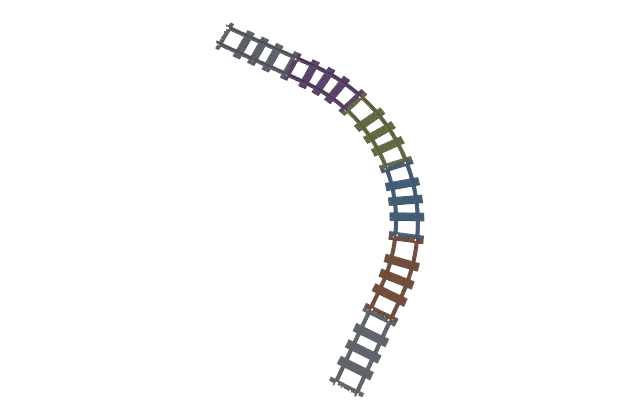
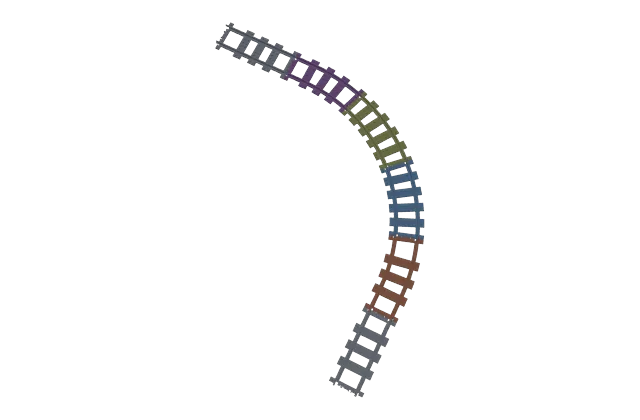
docs: settings pictures remade for the curves' sleepers; a picture for Plain track
- curveStuds and splitTrack pictures remade (curves' sleepers now split the arc evenly); every other
  settings picture rebuilt and unchanged.
- Plain track has pictures: a straight, LEGO's R40 and a BrickTracks R104 curve, printed blue, LEGO's light
  grey, BrickTracks' dark grey (option-shot.html takes each part's colour).

Changed region(s): [[0.5938, 0.4024, 0.6875, 0.5571], [0.5312, 0.2476, 0.6562, 0.3714]]

diff --git a/src/app/main.ts b/src/app/main.ts
@@ -1155,7 +1155,7 @@ const OPTION_FORM: OptSection[] = [
       { v: 'bed', t: 'Parts that fill the print bed', tip: 'Cut along straight lines where the bed needs it; the parts join as set in Parts join with.' },
       { v: 'lengths', t: 'Track pieces, cut across the track', tip: 'Each track cut square to itself into pieces with ordinary end connectors, like LEGO track. Switches and crossings stay whole.', con: 'More parts, and a cut only where the track is clear of other tracks.' }] },
     { key: 'pieceLengthStuds', label: 'Piece length, studs', step: 4, min: 0, max: 64, off: (c) => (c.o.splitTrack === 'lengths' ? undefined : 'only with Long track cut into: Track pieces'), help: 'LEGO straights are 16. 0: as long as fits the print bed. A longer piece than the bed takes: as long as fits.' },
-    { key: 'legoTrack', label: 'Plain track', help: 'Bought straights are 16 studs, whatever Piece length is.', off: (c) => (c.o.splitTrack !== 'lengths' ? 'only with Long track cut into: Track pieces' : design.gaugeStuds !== 4 ? 'LEGO track is 4 studs between the rails: the gauge isn\'t 4' : undefined), choices: [
+    { key: 'legoTrack', label: 'Plain track', help: 'Bought straights are 16 studs, whatever Piece length is. Pictures: printed blue, LEGO\'s light grey, BrickTracks\' dark grey.', off: (c) => (c.o.splitTrack !== 'lengths' ? 'only with Long track cut into: Track pieces' : design.gaugeStuds !== 4 ? 'LEGO track is 4 studs between the rails: the gauge isn\'t 4' : undefined), choices: [
       { v: 'lego', t: 'Bought: LEGO\'s and BrickTracks\'', tip: 'Plain track bought, not printed: each 16-stud straight is LEGO\'s (53401), with ballast on LEGO plates under it (6 x 16 and two 2 x 16, two more 6 x 16 for the buddy layer); R40 curves are LEGO\'s (53400) and R56 to R120 curves BrickTracks\' (injection moulded, 11.25° each), with ballast on a printed ballast piece (…-ballast, with the buddy layer if set) they drop into; with a Flat ballast underside, BrickTracks\' curves on BrickTracks\' own ballast and buddy, bought too. Bought parts are in the parts list (toolbar), not the STL download.', con: 'Their sleepers and underside are theirs, not as set here.' },
       { v: 'lego-only', t: 'Bought: LEGO\'s only', tip: 'LEGO\'s straights (53401) and R40 curves (53400) bought, as Bought track; every other piece printed, BrickTracks\' radii (R56 to R120) too.', con: 'Their sleepers and underside are theirs, not as set here.' },
       { v: 'print', t: 'Printed', tip: 'Every piece printed, as set here: nothing bought.', con: 'More to print.' }] },
@@ -1233,7 +1233,7 @@ const openSecs: Set<string> = (() => { try { const v = JSON.parse(localStorage.g
 const keepSecs = () => { try { localStorage.setItem('btd-settings-open', JSON.stringify([...openSecs])); } catch { /* (not kept) */ } };
 let optQuery = '';
 /** The settings whose choices have example pictures (public/options/<key>-<value>.webp, made by scripts/option-pictures.mts). */
-const PICTURED = new Set(['joint', 'pointBlades', 'tongueRails', 'sleepers', 'curveStuds', 'ballast', 'bottomStyle', 'grip', 'undersideGrid', 'splitTrack', 'mechStyle', 'bladeHold', 'bladeStyle', 'throwStyle', 'bufferStyle', 'monoEndStuds']);
+const PICTURED = new Set(['joint', 'pointBlades', 'tongueRails', 'sleepers', 'curveStuds', 'ballast', 'bottomStyle', 'grip', 'undersideGrid', 'splitTrack', 'mechStyle', 'bladeHold', 'bladeStyle', 'throwStyle', 'bufferStyle', 'monoEndStuds', 'legoTrack']);
 /** A setting's choices side by side in a modal: each one's picture, what it does, its drawback, and a button to use it. */
 function showChoices(f: OptField, cur: string, def: string, c: OptCtx, off: string | undefined, use: (v: string) => void) {
   const modal = $('choices'), body = $('choices-body');

diff --git a/scripts/option-shot.html b/scripts/option-shot.html
@@ -1,6 +1,7 @@
 <!doctype html><html><body style="margin:0;background:transparent"><script type="module">
 // (scripts/option-pictures.mts's renderer: the STLs in ?stl= (comma separated; each part its own colour), the camera at
-// ?dir= (x,y,z from the target), ?dist= (times the parts' size), looking at ?at= (else their middle))
+// ?dir= (x,y,z from the target), ?dist= (times the parts' size), looking at ?at= (else their middle); ?col=, each part's
+// colour (hex, comma separated), if given)
 import * as THREE from 'three';
 import { STLLoader } from 'three/examples/jsm/loaders/STLLoader.js';
 const q = new URLSearchParams(location.search), W = Number(q.get('w') ?? 960), H = Number(q.get('h') ?? 640);
@@ -8,7 +9,7 @@ const r = new THREE.WebGLRenderer({ antialias: true, alpha: true, preserveDrawin
 // (a clear background: the pictures sit on the page's own, light or dark)
 const sc = new THREE.Scene();
 sc.add(new THREE.HemisphereLight(0xffffff, 0x666677, 1.7)); const dl = new THREE.DirectionalLight(0xffffff, 1.5); dl.position.set(-1, -2, 3); sc.add(dl);
-const cols = [0x6f7780, 0x8a5a44, 0x4f6f8f, 0x7a7f4f, 0x6f4f7f];
+const cols = q.get('col') ? q.get('col').split(',').map((h) => parseInt(h, 16)) : [0x6f7780, 0x8a5a44, 0x4f6f8f, 0x7a7f4f, 0x6f4f7f];
 const box = new THREE.Box3();
 let k = 0;
 for (const url of q.get('stl').split(',')) {
